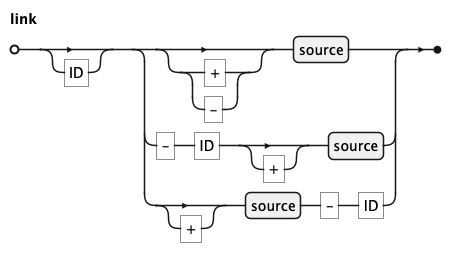
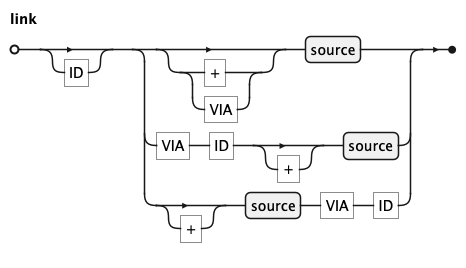
docs kql_ebnf, link and existslink with VIA-keyword

diff --git a/core/src/main/java/ai/koryki/kql/KQLFormatter.java b/core/src/main/java/ai/koryki/kql/KQLFormatter.java
@@ -505,7 +505,7 @@ public class KQLFormatter {
             }
             String crit = link.crit != null ? link.crit.getText() : null;
             if (crit != null) {
-                b.append("- ");
+                b.append("VIA ");
                 b.append(translator.crit(crit)).append(" ");
             }
             b.append(translator.source(link.source().name.getText()));
@@ -525,7 +525,7 @@ public class KQLFormatter {
             }
             String crit = link.crit != null ? link.crit.getText() : null;
             if (crit != null) {
-                b.append("- ");
+                b.append("VIA ");
                 b.append(translator.crit(crit) + " ");
             }
             b.append(link.PLUS() != null ? "+ " : "");